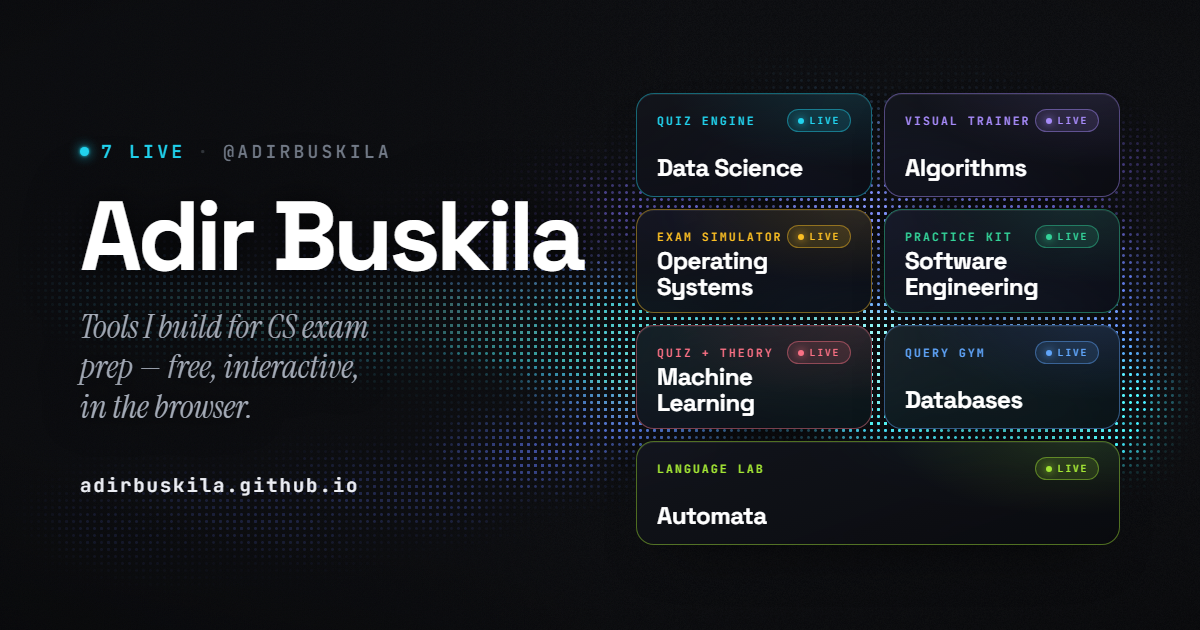
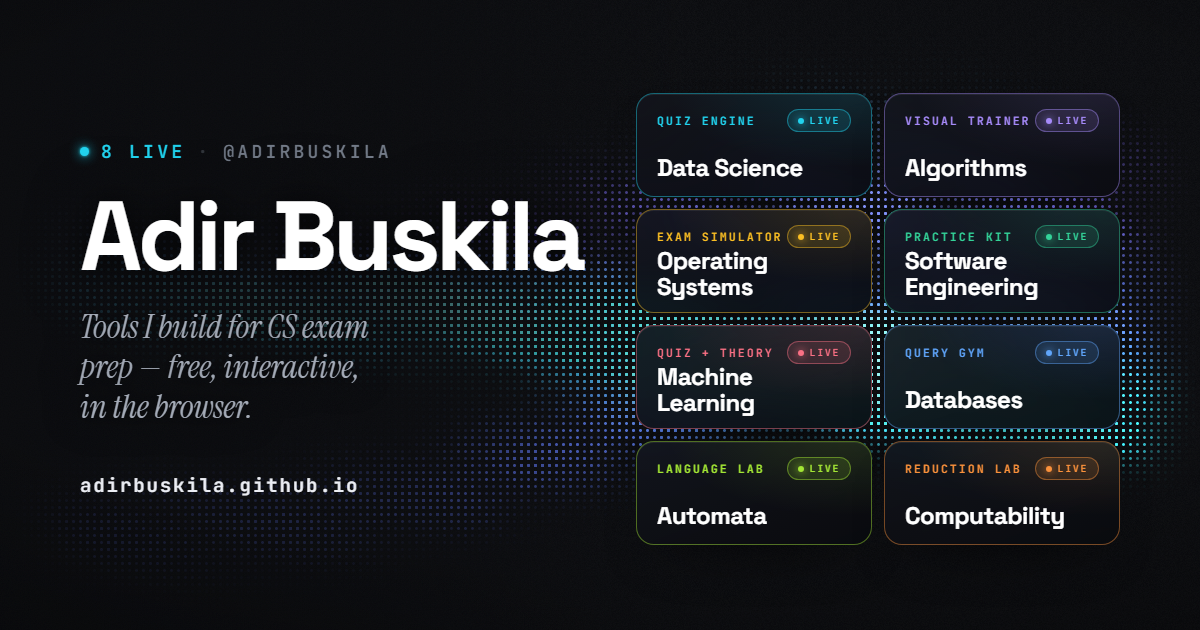
Launch Computability tile; show og.png in README
Eighth subject: Computability & Complexity (REDUCTION LAB, orange accent,
Sigma-star glyph). Rebalance the bento grid for 8 tiles (desktop: two hero
rows, a pair, then a row of three; tablet: wide hero, three pairs, wide
closer), add it to the noscript lists, and regenerate og.png with 8 tiles
and the 8 LIVE counter. README now opens with the og.png preview card.

diff --git a/og-template.html b/og-template.html
@@ -68,7 +68,7 @@
 
 <div class="card">
   <div class="left">
-    <div class="handle mono"><span class="dot"></span><b>7 LIVE</b><span class="sep">·</span>@ADIRBUSKILA</div>
+    <div class="handle mono"><span class="dot"></span><b>8 LIVE</b><span class="sep">·</span>@ADIRBUSKILA</div>
     <div class="name">Adir Buskila</div>
     <div class="sub">Tools I build for CS exam prep — free, interactive, in the browser.</div>
     <div class="url mono"><b>adirbuskila.github.io</b></div>
@@ -98,9 +98,13 @@
       <div class="row"><span class="tag mono">QUERY GYM</span><span class="chip mono"><span class="dot"></span>LIVE</span></div>
       <div class="t">Databases</div>
     </div>
-    <div class="tile wide" style="--a:#a3e635; --ad:rgba(163,230,53,.45); --af:rgba(163,230,53,.13)">
+    <div class="tile" style="--a:#a3e635; --ad:rgba(163,230,53,.45); --af:rgba(163,230,53,.13)">
       <div class="row"><span class="tag mono">LANGUAGE LAB</span><span class="chip mono"><span class="dot"></span>LIVE</span></div>
       <div class="t">Automata</div>
+    </div>
+    <div class="tile" style="--a:#fb923c; --ad:rgba(251,146,60,.45); --af:rgba(251,146,60,.13)">
+      <div class="row"><span class="tag mono">REDUCTION LAB</span><span class="chip mono"><span class="dot"></span>LIVE</span></div>
+      <div class="t">Computability</div>
     </div>
   </div>
 </div>

diff --git a/app.js b/app.js
@@ -77,6 +77,16 @@ const tools = [
     accent: '#a3e635',
     glyph: 'automaton',
   },
+  {
+    subject: 'Computability',
+    tag: 'REDUCTION LAB',
+    blurb: 'R, RE, coRE, mapping and poly-time reductions, NP-completeness — 427 past-exam questions with the official proofs, plus a 13-chapter study mode.',
+    status: 'live',
+    url: 'https://adirbuskila.github.io/computability-quiz/',
+    repo: 'https://github.com/AdirBuskila/computability-quiz',
+    accent: '#fb923c',
+    glyph: 'sigma',
+  },
 ];
 
 /* ==========================================================================
@@ -131,6 +141,11 @@ const glyphs = {
     '<path d="M4 12c0 1.5 3.6 2.7 8 2.7s8-1.2 8-2.7"/></svg>',
 
   // Automata — start arrow, a state with a self-loop, a transition into an accepting state
+  // Computability — Sigma-star: the set of all strings, home of every language
+  sigma: SVG_OPEN + '<title>Sigma star</title>' +
+    '<path d="M15.5 5H5l5.8 7L5 19h10.5"/>' +
+    '<path d="M19.5 2.2v4"/><path d="m17.8 3.2 3.4 2"/><path d="m17.8 5.2 3.4-2"/></svg>',
+
   automaton: SVG_OPEN + '<title>Finite automaton</title>' +
     '<path d="M1.5 14h2.3"/><path d="m2.9 12.8 1.2 1.2-1.2 1.2"/>' +
     '<circle cx="7.5" cy="14" r="3.2"/>' +

diff --git a/index.html b/index.html
@@ -81,6 +81,7 @@
           <li><a href="https://adirbuskila.github.io/machine-learning-quiz/">Machine Learning — quiz &amp; study mode</a></li>
           <li><a href="https://adirbuskila.github.io/databases-quiz/">Databases — query gym</a></li>
           <li><a href="https://adirbuskila.github.io/automata-quiz/">Automata — language lab</a></li>
+          <li><a href="https://adirbuskila.github.io/computability-quiz/">Computability — reduction lab</a></li>
         </ul>
         <p>Star the source on GitHub:</p>
         <ul class="noscript-list">
@@ -91,6 +92,7 @@
           <li><a href="https://github.com/AdirBuskila/machine-learning-quiz">AdirBuskila/machine-learning-quiz</a></li>
           <li><a href="https://github.com/AdirBuskila/databases-quiz">AdirBuskila/databases-quiz</a></li>
           <li><a href="https://github.com/AdirBuskila/automata-quiz">AdirBuskila/automata-quiz</a></li>
+          <li><a href="https://github.com/AdirBuskila/computability-quiz">AdirBuskila/computability-quiz</a></li>
           <li><a href="https://github.com/AdirBuskila/adirbuskila.github.io">AdirBuskila/adirbuskila.github.io</a></li>
         </ul>
       </noscript>

diff --git a/styles.css b/styles.css
@@ -252,19 +252,21 @@ body {
   gap: 12px;
 }
 
-/* 7 tiles: wide hero on top, then three even pairs */
+/* 8 tiles: wide hero on top, three even pairs, wide closer */
 @media (min-width: 560px) and (max-width: 899.98px) {
   .deck { grid-template-columns: 1fr 1fr; }
-  .tile:nth-child(1) { grid-column: span 2; }
+  .tile:nth-child(1),
+  .tile:nth-child(8) { grid-column: span 2; }
 }
 
-/* 7 tiles: two hero rows (1 + 3 wide, 2 tall on the side), then a 2×2 block (4–7) */
+/* 8 tiles: two hero rows (1 + 3 wide, 2 tall on the side), a pair (4–5), then a row of three (6–8) */
 @media (min-width: 900px) {
   .deck { grid-template-columns: repeat(6, 1fr); }
   .tile:nth-child(1) { grid-column: span 4; }
   .tile:nth-child(2) { grid-column: span 2; grid-row: span 2; }
   .tile:nth-child(3) { grid-column: span 4; }
   .tile:nth-child(n+4) { grid-column: span 3; }
+  .tile:nth-child(n+6) { grid-column: span 2; }
 }
 
 /* ---- Glass panels (tiles + star rows share the spotlight system) ------- */

diff --git a/README.md b/README.md
@@ -1,5 +1,7 @@
 # CS Study Tools Deck
 
+[![CS Study Tools Deck — link-preview card](og.png)](https://adirbuskila.github.io/)
+
 Personal launch hub for the exam-prep web apps I build for computer-science students.
 One shareable URL instead of one link at a time: **https://adirbuskila.github.io/**
 
@@ -32,8 +34,9 @@ url: '',         →  url: 'https://your-new-tool.example/',
 ```
 
 That's the whole change — the tile becomes a real link, the chip flips to LIVE,
-and the header counter updates. Zero layout edits. Adding a seventh subject is
-just appending another object to the array.
+and the header counter updates. Zero layout edits. Adding another subject is
+appending an object to the array (plus a glyph, and the bento `nth-child` spans in
+`styles.css` if the tile count changes the grid).
 
 ## Run locally
 
